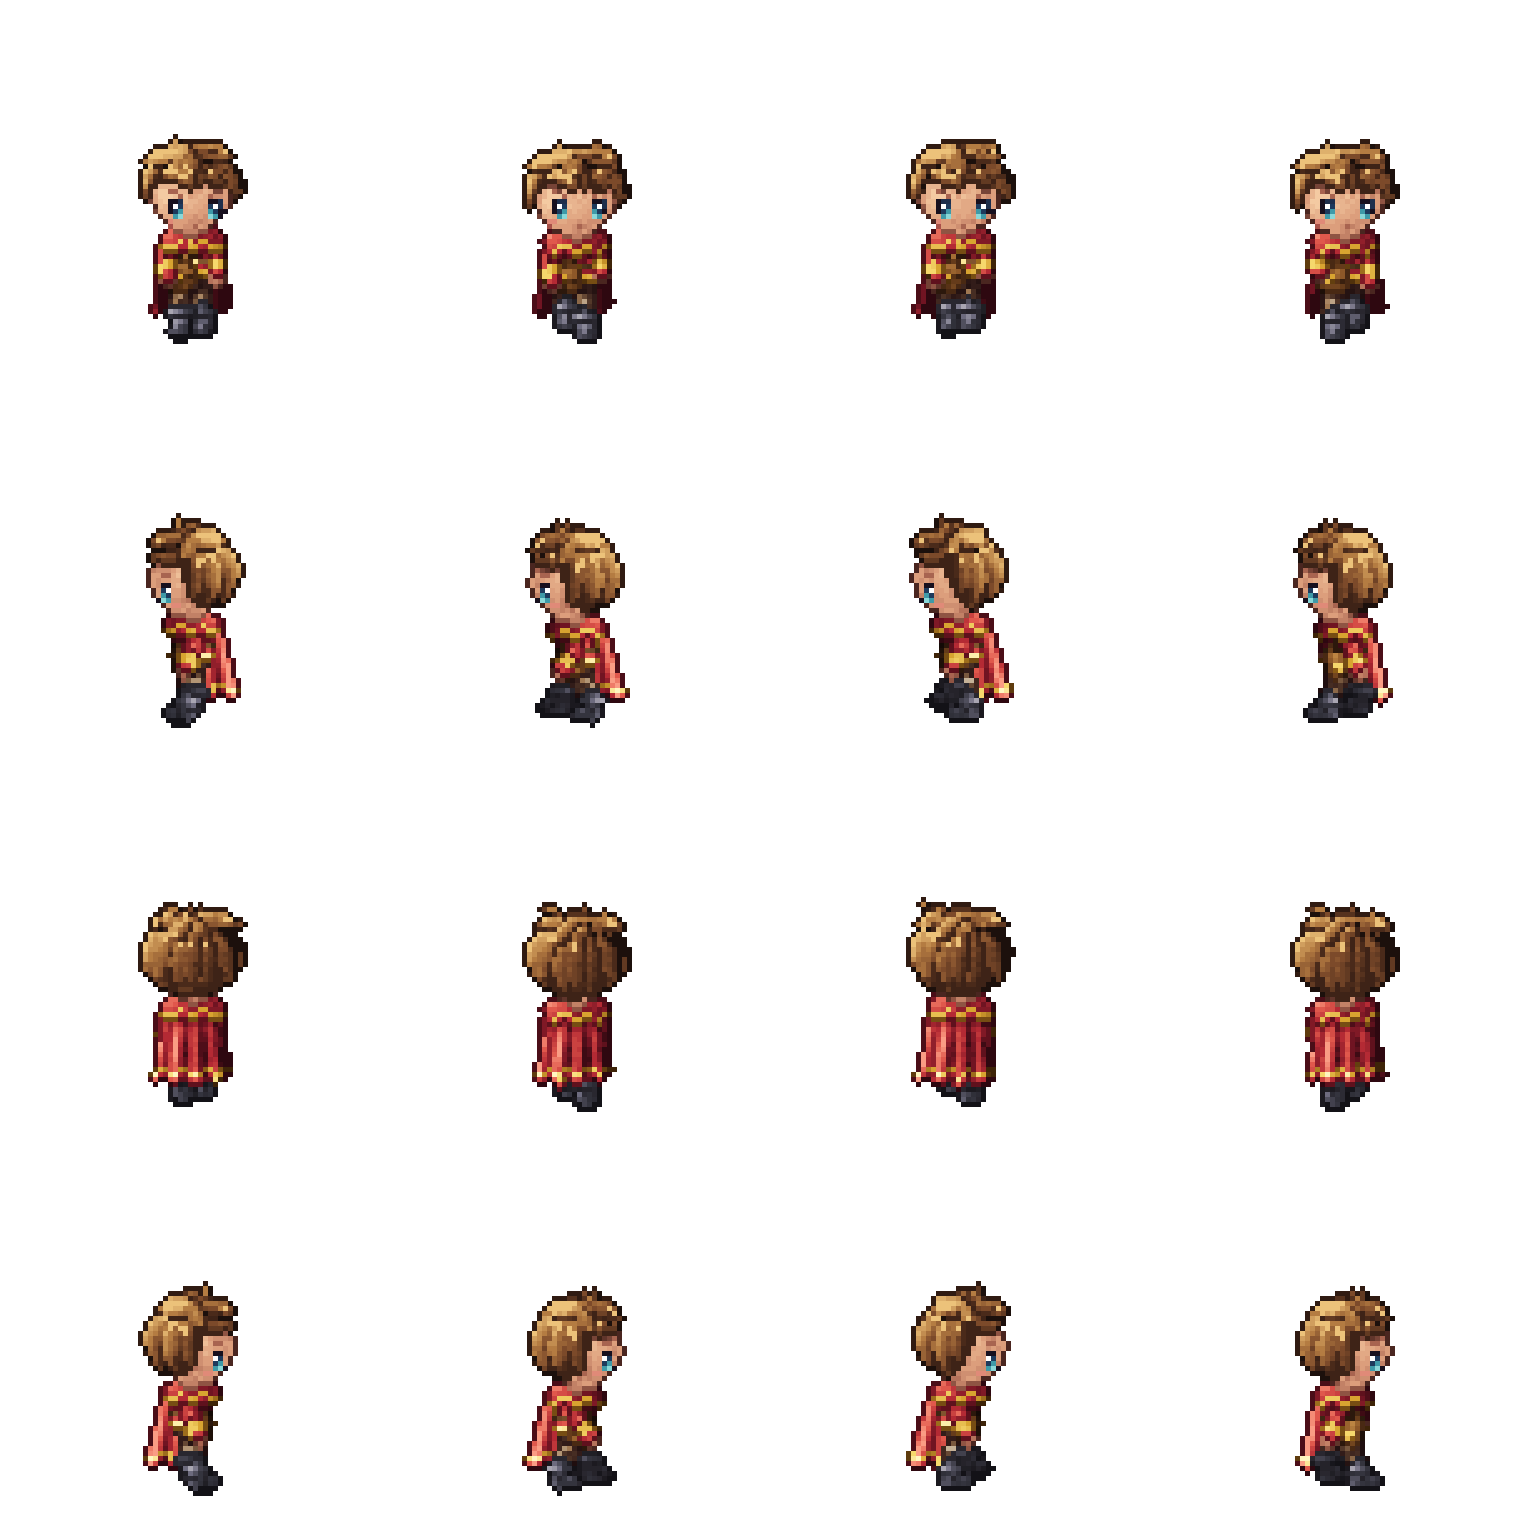
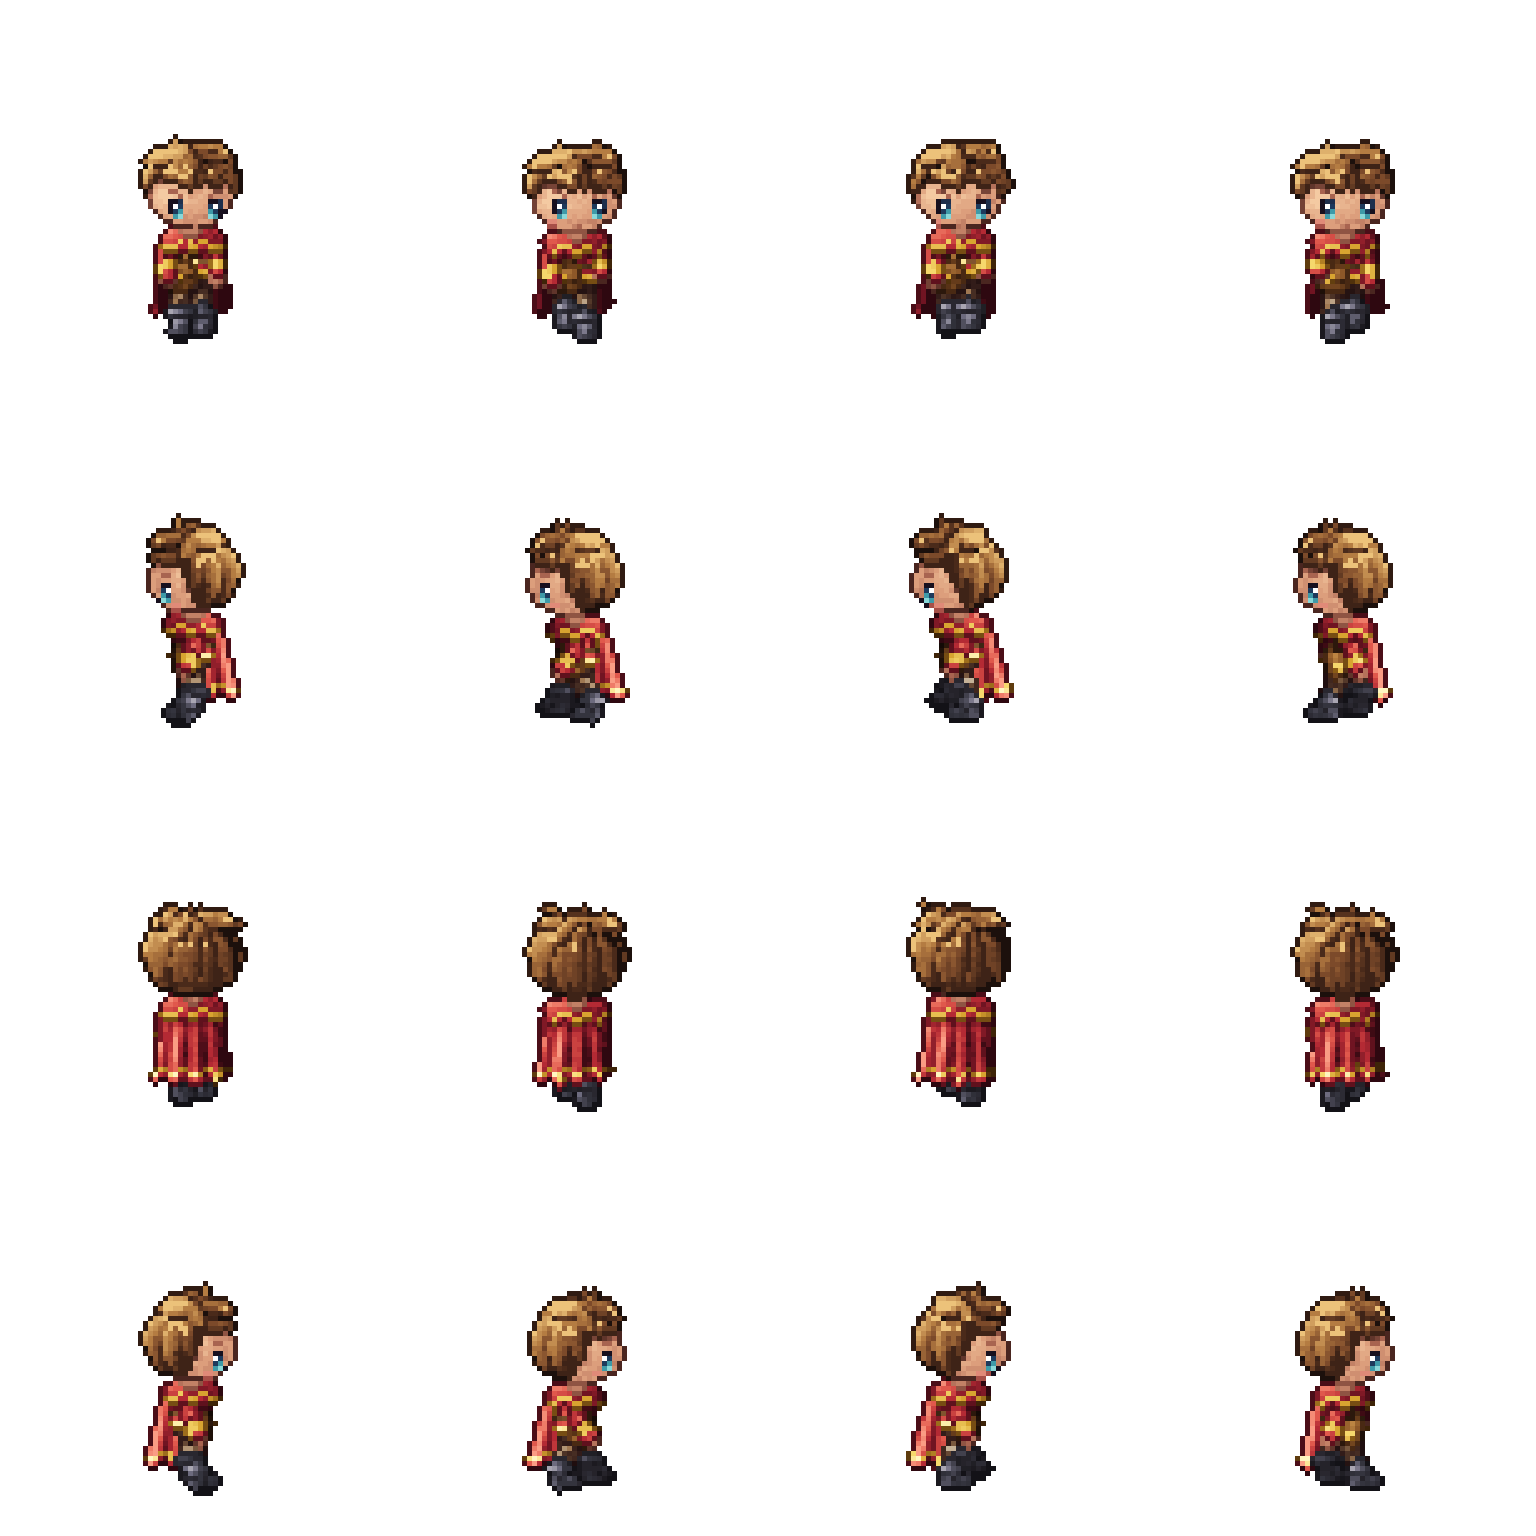
Character sprites: rounder face
Lower half of the face no longer tapers to a chin point and is
shorter (0.84 of the upper radius), close to a circle; the scarf
collar sits a little lower so the chin curve shows above it.
Sideburns end at the upper cheek and the hair base no longer covers
the cheeks, so the face is not boxed in by hair on both sides.
Docs and exports updated.

Claude-Session: https://claude.ai/code/session_01JLEecThURYQTCHEQgBW1W6

diff --git a/hd2d-walk-demo/src/items/hair/messy.ts b/hd2d-walk-demo/src/items/hair/messy.ts
@@ -63,9 +63,9 @@ function buildLocks(): Lock[] {
     out.push({ phi: phi + j(4), a0: 5, a1: len + j(3), twist: 16 + j(9), flick: 1.05 + r() * 0.07, lift: 0, width: 2.9, tier: 0, tint: j(0.22) });
   }
   // 鬓角：垂到下颌，框住脸，发梢向外翘
-  // 鬓角贴在耳朵前后（方位 ±92~110°），侧面不能盖到脸颊上
+  // 鬓角贴在耳朵前后（方位 ±92~110°），侧面不能盖到脸颊上；只垂到脸颊上半，露出下半边圆圆的脸颊
   for (const phi of [94, 110, -94, -110]) {
-    out.push({ phi: phi + j(3), a0: 5, a1: 108 + j(6), twist: j(8), flick: 1.08 + r() * 0.08, lift: 0, width: 2.3, tier: 0, tint: j(0.22) });
+    out.push({ phi: phi + j(3), a0: 5, a1: 94 + j(5), twist: j(8), flick: 1.08 + r() * 0.08, lift: 0, width: 2.3, tier: 0, tint: j(0.22) });
   }
   // 后发：垂到后颈，长短不齐，发梢只微微外翘（翘太多侧面会往后拖出一大截）
   for (const phi of [120, 142, 164, -173, -151, -129]) {
@@ -118,7 +118,7 @@ function profile(s: number): number {
 /** 发际线：某个方位上，发根底色盖到多低的纬度（度） */
 function hairline(phiAbs: number): number {
   if (phiAbs < 70) return 50;
-  if (phiAbs < 100) return 50 + ((phiAbs - 70) / 30) * 62;
+  if (phiAbs < 100) return 50 + ((phiAbs - 70) / 30) * 45; // 耳前：发根只盖到脸颊上半
   return 115 + ((phiAbs - 78) / 102) * 14;
 }
 

diff --git a/hd2d-walk-demo/src/items/body.ts b/hd2d-walk-demo/src/items/body.ts
@@ -47,10 +47,14 @@ function head(c: DrawCtx): void {
   // 头：椭球，下半张脸收窄成下巴；额头落在刘海的阴影里
   g.fill(hx - HEAD_RX - 1, hy - HEAD_RY - 1, hx + HEAD_RX + 1, hy + HEAD_RY + 1, (u, v) => {
     const dx = u - hx, dy = v - hy;
-    const rx = dy > 0 ? HEAD_RX * (1 - 0.17 * (dy / HEAD_RY) * (dy / HEAD_RY)) : HEAD_RX;
-    const nx = dx / rx, ny = dy / HEAD_RY;
-    const d = nx * nx + ny * ny;
-    if (d > 1) return -1;
+    // 圆脸：下巴几乎不收窄，下半张脸短一点；下半部接近正圆，下巴两角是圆弧而不是方角
+    const lower = dy > 0;
+    const rx = lower ? HEAD_RX * (1.05 - 0.05 * (dy / HEAD_RY) * (dy / HEAD_RY)) : HEAD_RX; // 脸颊处略鼓
+    const ry = lower ? HEAD_RY * 0.84 : HEAD_RY; // 下巴的弧线收在围巾上方，才看得出是圆的
+    const nx = dx / rx, ny = dy / ry;
+    const shape = lower ? Math.abs(nx) ** 2 + Math.abs(ny) ** 2.3 : nx * nx + ny * ny;
+    if (shape > 1) return -1;
+    const d = Math.min(1, nx * nx + ny * ny);
     const lam = nx * LX + ny * LY + Math.sqrt(1 - d) * LZ;
     if (dy < -3.4) return DARK; // 刘海的阴影
     // 脸上的过渡要柔：压缩光照范围，只落在 暗部..亮部 之间

diff --git a/hd2d-walk-demo/src/items/scarf/navy_scarf.ts b/hd2d-walk-demo/src/items/scarf/navy_scarf.ts
@@ -35,7 +35,7 @@ export const navyScarf: ItemDef = {
         // 侧面看围巾只比脖子粗一圈，不能按正面宽度画，否则会前后各凸出一截
         const hw = pose.torsoHalf + 2.2 - 1.5 * Math.abs(pose.sin);
         const sx = CX + pose.sin * 0.5;
-        const yc = pose.neckY + 1.5, hh = 2.8;
+        const yc = pose.neckY + 2.1, hh = 2.6; // 颈圈上缘低于下巴，圆下巴不会被切平
         c.pal('main');
         g.grit = 0.26;
         // 颈部一圈：一条厚实的圆筒，上亮下暗，带斜向的褶

diff --git a/docs/CHARACTER_SPRITES.md b/docs/CHARACTER_SPRITES.md
@@ -142,6 +142,7 @@ export const myItem: ItemDef = {
   | N | 无 | — | — | — |
 
 - **轮廓不能鼓包。** 五官整段用 `g.clip = true` 包起来。侧面不画突出的鼻尖，只在脸的前缘打一点暗部。
+- **圆脸。** 上半张脸是椭圆；下半张脸几乎不收窄（只收 5%），高度只有上半的 0.84，形状接近正圆，下巴两角是圆弧。下巴必须收在围巾颈圈上缘之上，中间露出一道脖子阴影，否则下巴会被围巾切成一条平线，看起来像方脸。
 - **脸部明暗要柔。** 脸的光照压缩在 暗部…亮部 之间（`lam × 0.62 + 0.2`），grit 取 0.07。额头 `dy < −3.4` 一律压成暗部，表示刘海的阴影。
 - 如果以后要多套脸型可切换：给 `Slot` 增加 `face` 槽，把 `head()` 的五官部分拆成一个 `layer: 'head'` 的装备，并沿用本节规则。
 
@@ -156,7 +157,7 @@ export const myItem: ItemDef = {
 | 字段 | 含义 | 建议范围 |
 | --- | --- | --- |
 | `phi` | 方位角：0 = 脸正前方，+ = 角色左侧，±180 = 后脑 | |
-| `a0 / a1` | 起止纬度，0 = 头顶 | 刘海 a1 60–72；鬓角 105–115；后发 120–135 |
+| `a0 / a1` | 起止纬度，0 = 头顶 | 刘海 a1 60–72；鬓角 90–100；后发 120–135 |
 | `twist` | 发梢在方位上拧的角度。刘海整体同向拧，形成斜刘海 | 刘海 10–25，其余 ±15 |
 | `flick` | 发梢外翘比例 | 刘海 1.05–1.12；鬓角 ≤ 1.16；**后发 ≤ 1.12**（翘多了侧面往后拖一截） |
 | `lift` | 发根离头皮的高度 | 上层短发束 0.05，其余 0 |
@@ -166,9 +167,9 @@ export const myItem: ItemDef = {
 
 硬性要求：
 
-1. **鬓角放在方位 ±92°–110°**（耳朵前后）。小于 85° 时，侧面会把脸颊整块盖住。
+1. **鬓角放在方位 ±92°–110°**（耳朵前后），只垂到脸颊上半（a1 ≤ 100）。方位小于 85° 时侧面会把脸颊整块盖住；垂得太长会把正面的脸夹成竖长方块，失去圆脸。
 2. **刘海不压眼睛**，`a1 ≤ 72`。只有中间一缕可以略长，垂到两眼之间。
-3. **不露头皮**：发束下面有一层按 `hairline(phi)` 计算的发根底色。改发际线时，前额 50°（方位 < 70°），鬓角处过渡到 112°（方位 100°），后脑约 118°–129°。
+3. **不露头皮**：发束下面有一层按 `hairline(phi)` 计算的发根底色。改发际线时，前额 50°（方位 < 70°），耳前只盖到脸颊上半，过渡到 95°（方位 100°），后脑约 118°–129°。
 4. **分两层**：`hair_back` 放在头后面那一侧（`near < −0.12`）的发束，`hair` 放其余发束和发根底色。
 5. **发束随机数用固定种子**，每次烘焙结果一致。
 6. **配色**：手写 5 色，色相从暗部的红棕过渡到亮部的金色。天使环高光只出现在受光一侧、纬度 36°–50° 的发束亮面上。发色变体写在 `variants` 里。
@@ -199,7 +200,7 @@ export const myItem: ItemDef = {
 - 鞋底一律为描边色。远侧的那只鞋整体压暗。
 
 **围巾（scarf）**
-- 颈圈画在 `scarf` 层，中心在 `neckY + 1.5`，半高 2.8。半宽为 `torsoHalf + 2.2 − 1.5·|sin|`，轮廓是圆头（指数 2.6 / 3），不是方筒。
+- 颈圈画在 `scarf` 层，中心在 `neckY + 2.1`，半高 2.6（上缘要低于下巴）。半宽为 `torsoHalf + 2.2 − 1.5·|sin|`，轮廓是圆头（指数 2.6 / 3），不是方筒。
 - 正面加一个围巾结和垂下的一段，末端带两道浅色条纹。
 - 飘在身后的尾巴不烘焙进 sheet，由 `tail` 定义挂点、节数和每节长度，运行时用弹簧链驱动（见第 8 节）。
 
